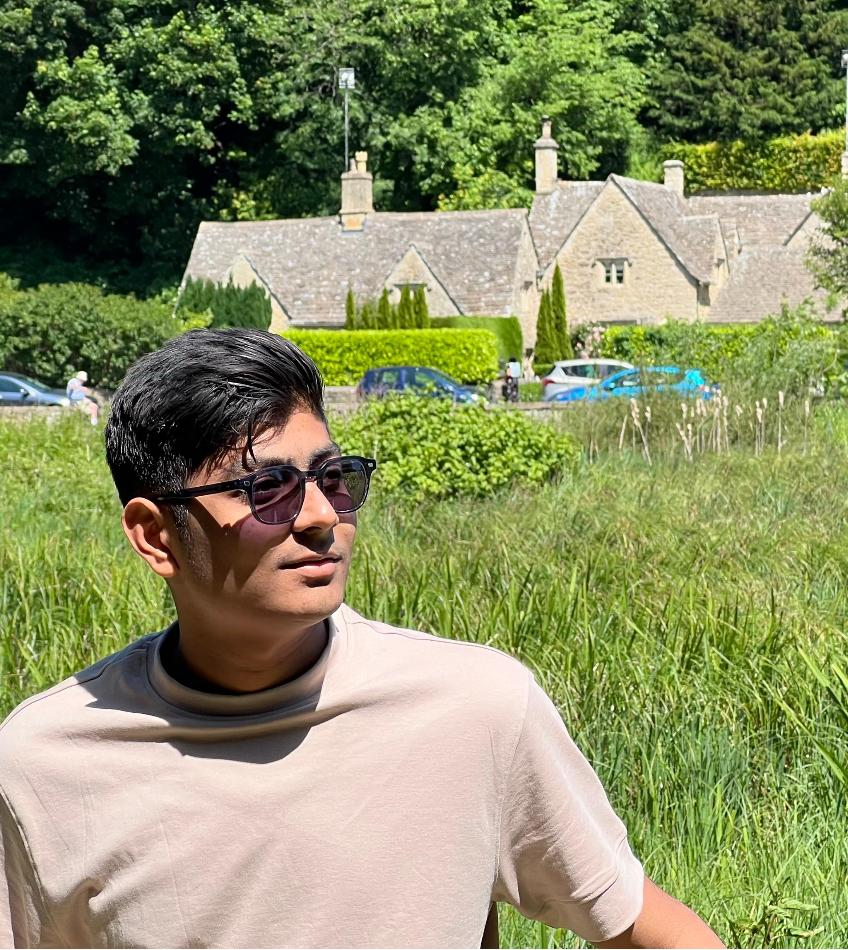
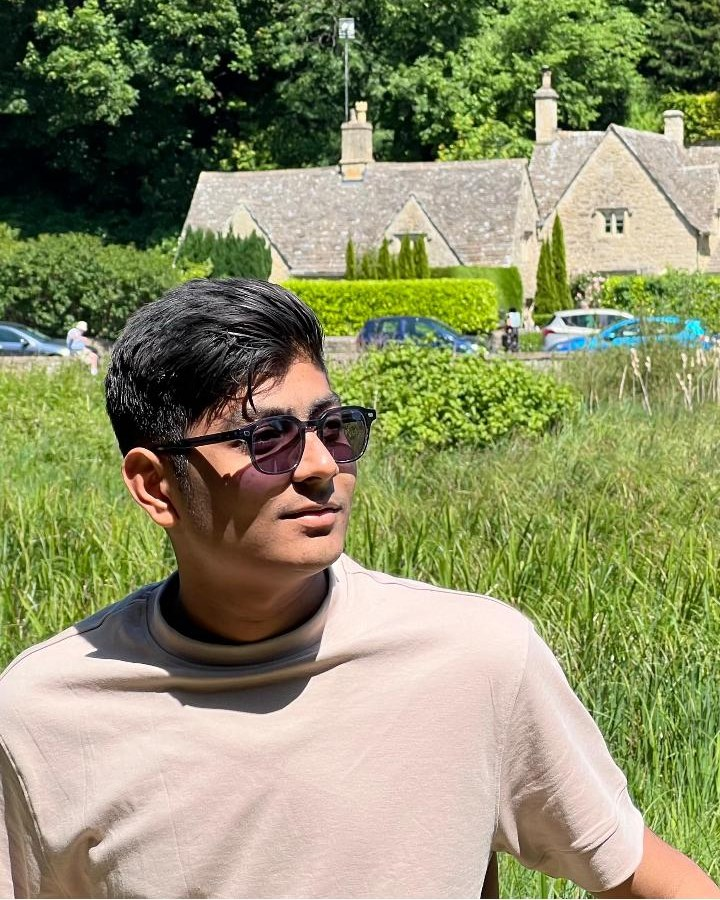
Reframe the founder portraits so both faces are visible
Both source photos are portrait — 848x950 and 2268x4032 — but .person-img is
a 4:3 landscape box with object-position: center top. Cover therefore threw
away the bottom of each image: 33% of Abhishek's, and 69% of Getansh's, whose
face sits at 51% down, so the card showed only the cathedral behind him.

Recropped both to a matched 720x900 (4:5) frame centred on the face, and set
the box to 4:5 so the source and the container now agree and cover has
nothing left to cut. 720x900 is the largest 4:5 window Abhishek's narrower
source allows without upscaling.

Added intrinsic width/height to both tags so the cards no longer reflow as
the images arrive. Getansh's file drops from 1.6 MB to 158 KB as a
side effect of losing the unused 4032px height.

Claude-Session: https://claude.ai/code/session_01Gnpt5FvAJt3rCJTXkgGBXf

diff --git a/about.html b/about.html
@@ -117,7 +117,7 @@
       </div>
       <div class="people">
         <article class="person reveal">
-          <div class="person-img"><img src="assets/abhishek.jpg" alt="Abhishek Khuthiya, Co-Founder of gaa-tha" loading="lazy"></div>
+          <div class="person-img"><img src="assets/abhishek.jpg" alt="Abhishek Khuthiya, Co-Founder of gaa-tha" width="720" height="900" loading="lazy"></div>
           <div class="person-body">
             <p class="person-role">Co-Founder</p>
             <h3>Abhishek Khuthiya</h3>
@@ -126,7 +126,7 @@
           </div>
         </article>
         <article class="person reveal">
-          <div class="person-img"><img src="assets/getansh.jpg" alt="Getansh Savla, Co-Founder of gaa-tha" loading="lazy"></div>
+          <div class="person-img"><img src="assets/getansh.jpg" alt="Getansh Savla, Co-Founder of gaa-tha" width="720" height="900" loading="lazy"></div>
           <div class="person-body">
             <p class="person-role">Co-Founder</p>
             <h3>Getansh Savla</h3>

diff --git a/gaatha.css b/gaatha.css
@@ -1328,8 +1328,10 @@ a.cvel-item:hover { color: var(--accent-ink); }
     border: 1px solid var(--line); border-radius: var(--r-lg);
     overflow: hidden; background: var(--white);
 }
-.person-img { aspect-ratio: 4 / 3; background: var(--surface-2); overflow: hidden; }
-.person-img img { width: 100%; height: 100%; object-fit: cover; object-position: center top; }
+/* Both portraits are cropped to 4:5 and framed on the face, so the box
+   matches the source exactly and `cover` has nothing left to cut. */
+.person-img { aspect-ratio: 4 / 5; background: var(--surface-2); overflow: hidden; }
+.person-img img { width: 100%; height: 100%; object-fit: cover; object-position: center; }
 .person-body { padding: clamp(22px, 3vw, 30px); }
 .person-role {
     font-size: 0.6875rem; font-weight: 700; letter-spacing: 0.12em; text-transform: uppercase;
